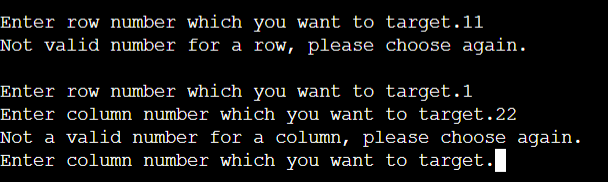
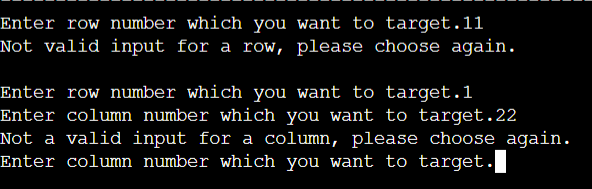
Change message for input number pprompt

diff --git a/run.py b/run.py
@@ -43,15 +43,15 @@ class Game_board:
         inputs.
         """
         try:
-            x = input("Enter row number which you want to target.")
+            x = input("Enter row number which you want to target:")
             while x not in "01234" or x == "":
                 print("Not valid input for a row, please choose again.\n")
-                x = input("Enter row number which you want to target.")
+                x = input("Enter row number which you want to target:")
 
-            y = input("Enter column number which you want to target.")
+            y = input("Enter column number which you want to target:")
             while y not in "01234" or y == "":
                 print("Not a valid input for a column, please choose again.")
-                y = input("Enter column number which you want to target.")
+                y = input("Enter column number which you want to target:")
 
             return int(x), int(y)
         except ValueError:

diff --git a/README.md b/README.md
@@ -80,7 +80,13 @@ This short battleship game, is made of getting 3 guesses from the user to try to
 
 <p align="center">
   <img src="docs/incorrect-number.png">
-</p> 
+</p>
+
+- If user not type in any number, then message of incorrect input is shown.
+
+<p align="center">
+  <img src="docs/incorrect-number.png">
+</p>
 
 - If user type in same row and column number, then message of same input location number has been prompt.
 - Game asks users to type in different numbers.
